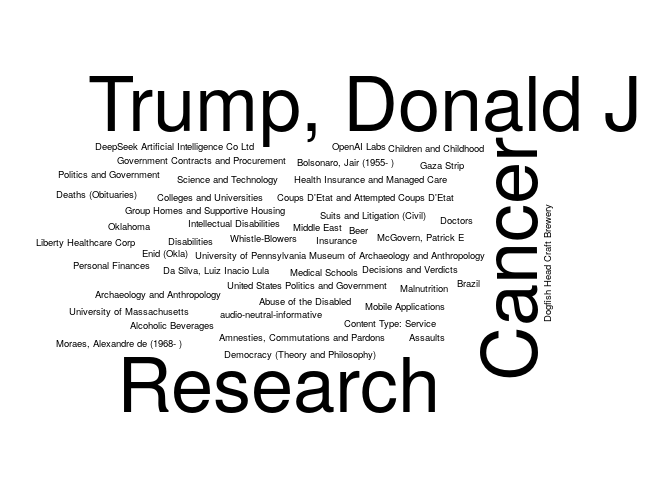
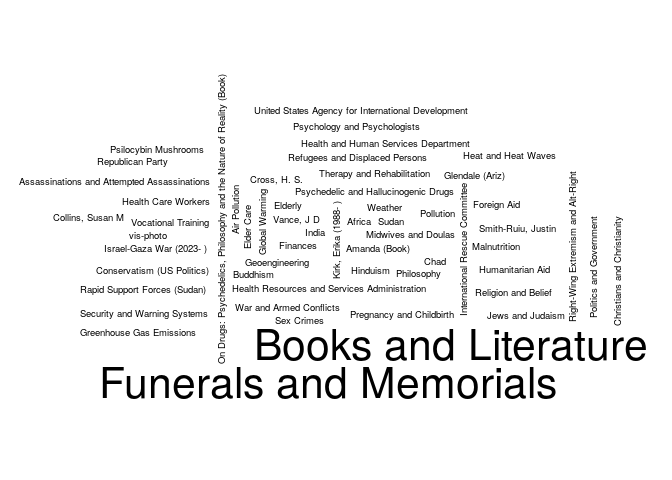
Updating the NYT report

Changed region(s): [[0.0312, 0.1562, 0.9688, 0.875], [0.9062, 0.1562, 0.9688, 0.2812]]

diff --git a/03-nytimes/README.md b/03-nytimes/README.md
@@ -5,7 +5,7 @@ The following is an example of how to use the [NYTimes
 API](https://developer.nytimes.com/) to get a list of articles related
 to a particular term. Here we are searching articles that include the
 term `"health"`, and that were published up to seven days ago since
-2025-09-15.
+2025-09-22.
 
 ``` r
 # Preparing a function to use the GET method with the NYTimes API
@@ -83,25 +83,25 @@ colnames(tab) <- c("Keyword", "# Articles")
 knitr::kable(tab, row.names = FALSE)
 ```
 
-| Keyword                                 | \# Articles |
-|:----------------------------------------|------------:|
-| Artificial Intelligence                 |          10 |
-| Cancer                                  |          10 |
-| Medicine and Health                     |          10 |
-| Religion and Belief                     |          10 |
-| Research                                |          10 |
-| Trump, Donald J                         |          10 |
-| Abuse of the Disabled                   |           5 |
-| Alcoholic Beverages                     |           5 |
-| Amnesties, Commutations and Pardons     |           5 |
-| Archaeology and Anthropology            |           5 |
-| Assaults                                |           5 |
-| audio-neutral-informative               |           5 |
-| Beer                                    |           5 |
-| Bolsonaro, Jair (1955- )                |           5 |
-| Brazil                                  |           5 |
-| Children and Childhood                  |           5 |
-| Colleges and Universities               |           5 |
-| Content Type: Service                   |           5 |
-| Coups D’Etat and Attempted Coups D’Etat |           5 |
-| Da Silva, Luiz Inacio Lula              |           5 |
+| Keyword                                     | \# Articles |
+|:--------------------------------------------|------------:|
+| Kirk, Charlie (1993- )                      |          15 |
+| Trump, Donald J                             |          15 |
+| United States Politics and Government       |          15 |
+| Books and Literature                        |          10 |
+| Funerals and Memorials                      |          10 |
+| Turning Point USA                           |          10 |
+| Africa                                      |           5 |
+| Air Pollution                               |           5 |
+| Amanda (Book)                               |           5 |
+| Assassinations and Attempted Assassinations |           5 |
+| Buddhism                                    |           5 |
+| Chad                                        |           5 |
+| Christians and Christianity                 |           5 |
+| Collins, Susan M                            |           5 |
+| Conservatism (US Politics)                  |           5 |
+| Cross, H. S.                                |           5 |
+| Elder Care                                  |           5 |
+| Elderly                                     |           5 |
+| Finances                                    |           5 |
+| Foreign Aid                                 |           5 |
